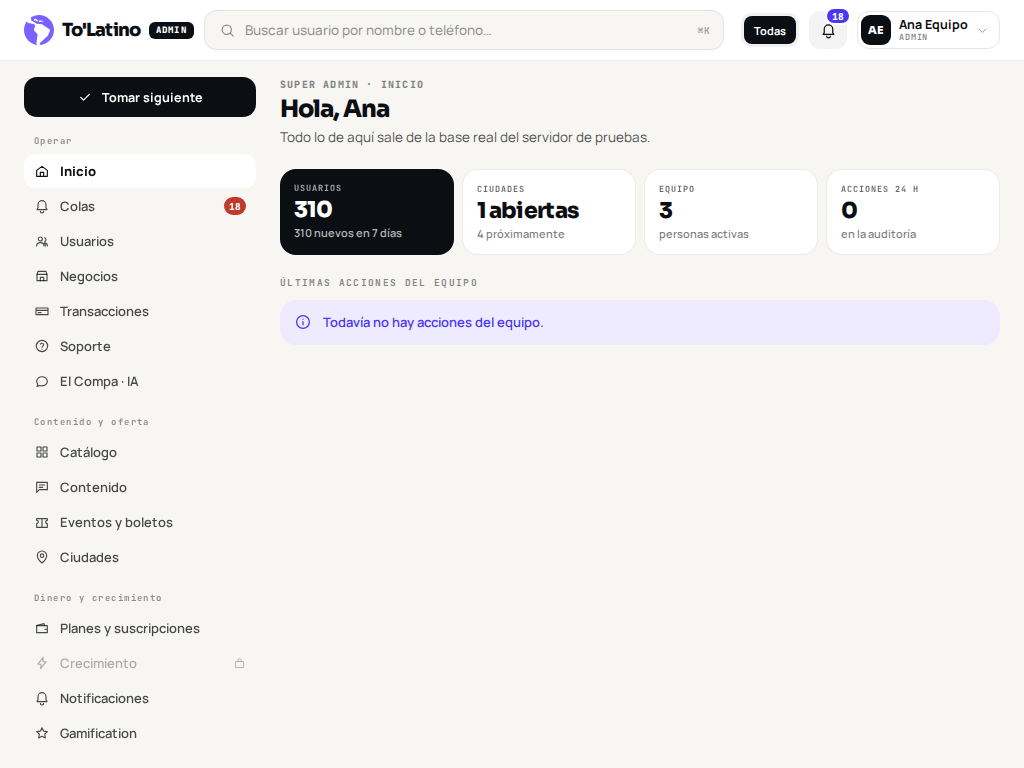
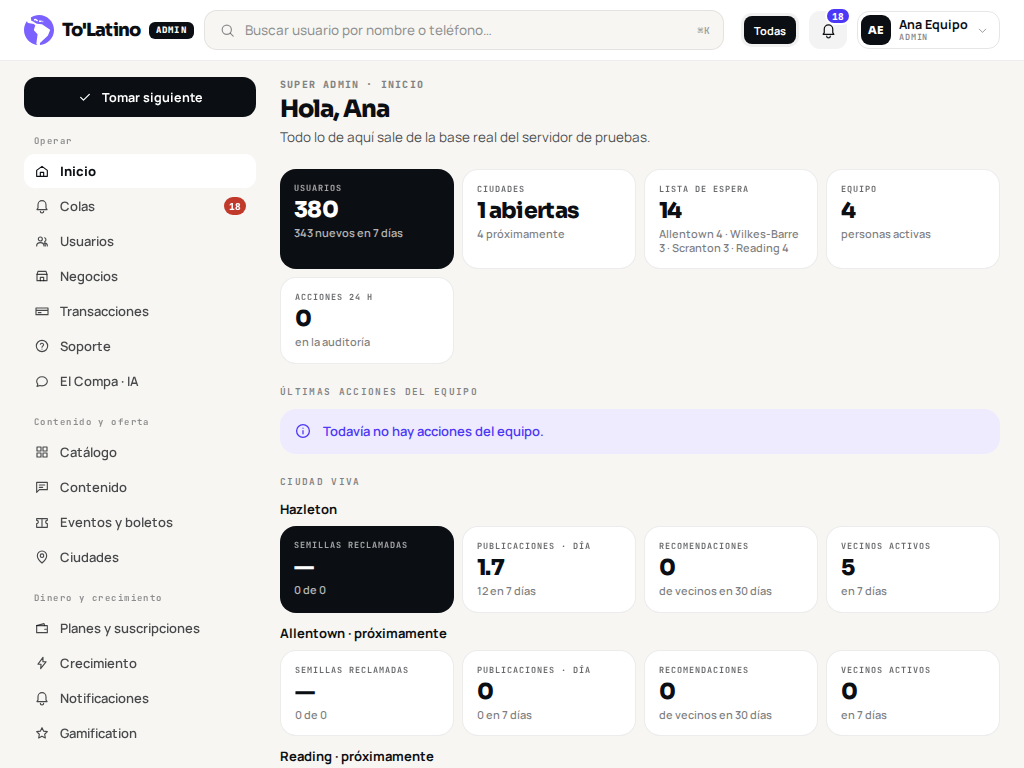
Fase 9 · 9b-3: capturas del Super Admin › Inicio (las 9: lista de espera y Ciudad viva) y de la Inicio del vecino (iPad y computadoras: solo los negocios abiertos a esa hora y las fechas) aprobadas y anotadas en REVISION; Ciudad viva dice «beta (solo invitados)»; la traza del sandbox compara por omi
Claude-Session: https://claude.ai/code/session_01CAVQod1VDR7sfuuZvknrwy

diff --git a/apps/web/app/admin/page.tsx b/apps/web/app/admin/page.tsx
@@ -63,7 +63,7 @@ export default async function Inicio({ searchParams }: { searchParams: Promise<{
           <span className="font-mono text-[9.5px] font-bold tracking-[0.14em] text-text-muted">{E("CIUDAD VIVA", "LIVING CITY")}</span>
           {vivas.map((c) => (
             <div key={c.id} className="flex flex-col gap-1.5">
-              <span className="text-[13px] font-bold">{c.ciudad}{c.status === "on" ? "" : E(" · próximamente", " · coming soon")}</span>
+              <span className="text-[13px] font-bold">{c.ciudad}{c.status === "on" ? "" : c.status === "beta" ? E(" · beta (solo invitados)", " · beta (invited only)") : E(" · próximamente", " · coming soon")}</span>
               <KpiRow columns="repeat(auto-fill, minmax(min(100%, 160px), 1fr))" items={[
                 { label: E("SEMILLAS RECLAMADAS", "SEEDS CLAIMED"), value: c.semillas ? `${Math.round((c.reclamadas / c.semillas) * 100)} %` : "—", sub: E(`${c.reclamadas} de ${c.semillas}`, `${c.reclamadas} of ${c.semillas}`), dark: c.status === "on" },
                 { label: E("PUBLICACIONES · DÍA", "POSTS · DAY"), value: (Math.round((c.posts7 / 7) * 10) / 10).toString(), sub: E(`${c.posts7} en 7 días`, `${c.posts7} in 7 days`) },
